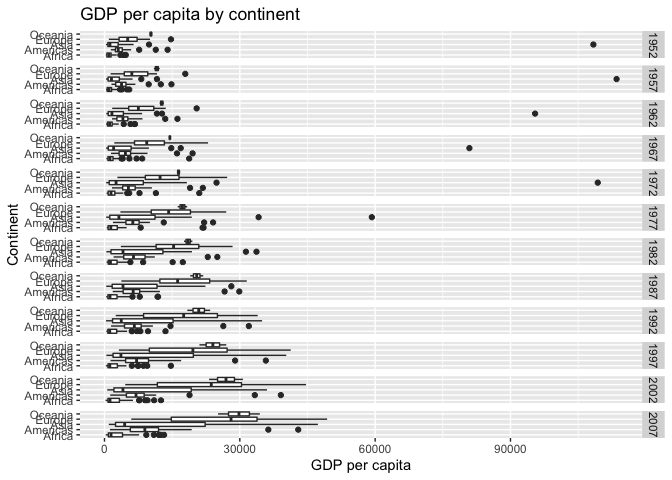
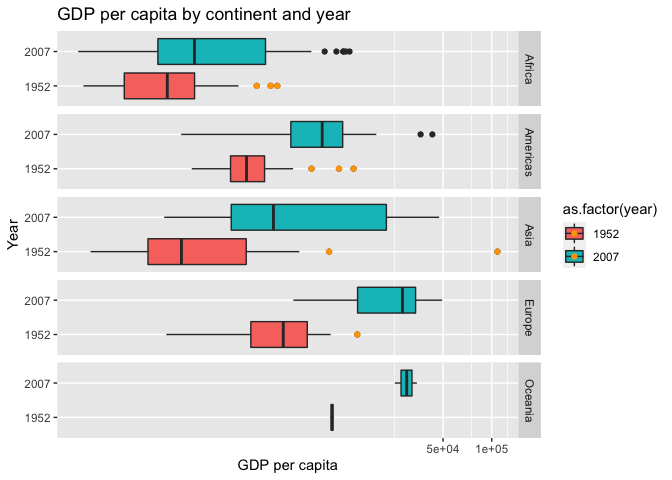
Gapminder v1.1, first complete draft

diff --git a/c04-gapminder-assignment.md b/c04-gapminder-assignment.md
@@ -20,14 +20,14 @@ learning.
 library(tidyverse)
 ```
 
-    ## ── Attaching packages ────────────────────────────────────────────────────────────────────────────────────── tidyverse 1.3.0 ──
+    ## ── Attaching packages ──────────────────────────────────────────────────────────────────────── tidyverse 1.3.0 ──
 
     ## ✓ ggplot2 3.3.2     ✓ purrr   0.3.4
     ## ✓ tibble  3.0.1     ✓ dplyr   1.0.0
     ## ✓ tidyr   1.1.0     ✓ stringr 1.4.0
     ## ✓ readr   1.3.1     ✓ forcats 0.5.0
 
-    ## ── Conflicts ───────────────────────────────────────────────────────────────────────────────────────── tidyverse_conflicts() ──
+    ## ── Conflicts ─────────────────────────────────────────────────────────────────────────── tidyverse_conflicts() ──
     ## x dplyr::filter() masks stats::filter()
     ## x dplyr::lag()    masks stats::lag()
 
@@ -79,26 +79,10 @@ dataset.
 
 ``` r
 ## TASK: Find the largest and smallest values of `year` in `gapminder`
-year_max <- gapminder %>%
-  summarize(max(year))
-year_max
+
+year_max <- max(select(gapminder, year))
+year_min <- min(select(gapminder, year))
 ```
-
-    ## # A tibble: 1 x 1
-    ##   `max(year)`
-    ##         <int>
-    ## 1        2007
-
-``` r
-year_min <- gapminder %>%
-  summarize(min(year))
-year_min
-```
-
-    ## # A tibble: 1 x 1
-    ##   `min(year)`
-    ##         <int>
-    ## 1        1952
 
 Use the following test to check your work.
 
@@ -143,72 +127,68 @@ can.
 
 ``` r
 ## TASK: Create a visual of gdpPercap vs continent
-year_min
-```
-
-    ## # A tibble: 1 x 1
-    ##   `min(year)`
-    ##         <int>
-    ## 1        1952
-
-``` r
-min_gapminder <- gapminder %>%
-  filter(year == year_min) #This is broken and I don't know why
-min_gapminder 
-```
-
-    ## # A tibble: 1,704 x 6
-    ##    country     continent  year lifeExp      pop gdpPercap
-    ##    <fct>       <fct>     <int>   <dbl>    <int>     <dbl>
-    ##  1 Afghanistan Asia       1952    28.8  8425333      779.
-    ##  2 Afghanistan Asia       1957    30.3  9240934      821.
-    ##  3 Afghanistan Asia       1962    32.0 10267083      853.
-    ##  4 Afghanistan Asia       1967    34.0 11537966      836.
-    ##  5 Afghanistan Asia       1972    36.1 13079460      740.
-    ##  6 Afghanistan Asia       1977    38.4 14880372      786.
-    ##  7 Afghanistan Asia       1982    39.9 12881816      978.
-    ##  8 Afghanistan Asia       1987    40.8 13867957      852.
-    ##  9 Afghanistan Asia       1992    41.7 16317921      649.
-    ## 10 Afghanistan Asia       1997    41.8 22227415      635.
-    ## # … with 1,694 more rows
-
-``` r
 gapminder %>%
   filter(year == year_min) %>%
-  ggplot(aes(continent, gdpPercap)) +
+  ggplot(aes(gdpPercap, continent)) +
     geom_boxplot() +
-    coord_flip() +
-    labs(title = "GDP per capita by continent", y = "GDP per capita", x = "Continent")
+    coord_trans(x = "log") +
+    labs(title = "GDP per capita by continent", x = "GDP per capita", y = "Continent")
 ```
 
 ![](c04-gapminder-assignment_files/figure-gfm/q2-task-1.png)<!-- -->
 
 **Observations**:
 
-  - Oceania has the highest mean GPD per capita, followed by Europe, the
-    Americas, Asia, and lastly Africa.
-  - Asia has the greatest spread of GDP per capita of any continent, and
-    includes multiple countries with the highest GPD per capita in the
-    first year in the dataset (represented as outliers in the chart).
+  - In 1952, Oceania had the highest mean GPD per capita, followed by
+    Europe, the Americas, Asia, and lastly Africa.
+  - Asia has the greatest spread of GDP per capita of any continent,
+    having one country with a GDP that is much higher than any other
+    country this year.
 
 **Difficulties & Approaches**:
 
   - Difficult to differentiate between GDP values near zero, where many
     are clustered. Used a boxplot for a high-level summary and flipped
-    the axes to get greater resolution in GDP.
+    the axes to get greater resolution in GDP.  
+  - This still wasn’t enough. Scaled the x-axis to be logarithmic.
 
 **q3** You should have found at least three outliers in q2. Identify
 those outliers (figure out which countries they are).
 
-*Note*: I realize the reasons for
-
 ``` r
 ## TASK: Identify the outliers from q2
+outliers_1952 <-
+  gapminder %>%
+  filter(year == year_min) %>%
+  group_by(continent) %>%
+  mutate(
+    "lowerbound" = quantile(gdpPercap, 0.25) - IQR(gdpPercap)*1.5, 
+    "upperbound" = quantile(gdpPercap, 0.75) + IQR(gdpPercap)*1.5
+  ) %>%
+  filter(gdpPercap < lowerbound | gdpPercap > upperbound)
+
+outliers_1952
 ```
+
+    ## # A tibble: 9 x 8
+    ## # Groups:   continent [4]
+    ##   country       continent  year lifeExp      pop gdpPercap lowerbound upperbound
+    ##   <fct>         <fct>     <int>   <dbl>    <int>     <dbl>      <dbl>      <dbl>
+    ## 1 Angola        Africa     1952    30.0   4.23e6     3521.      -845.      2835.
+    ## 2 Bahrain       Asia       1952    50.9   1.20e5     9867.     -2679.      6464.
+    ## 3 Canada        Americas   1952    68.8   1.48e7    11367.       161.      6208.
+    ## 4 Gabon         Africa     1952    37.0   4.21e5     4293.      -845.      2835.
+    ## 5 Kuwait        Asia       1952    55.6   1.60e5   108382.     -2679.      6464.
+    ## 6 South Africa  Africa     1952    45.0   1.43e7     4725.      -845.      2835.
+    ## 7 Switzerland   Europe     1952    69.6   4.82e6    14734.     -2752.     13230.
+    ## 8 United States Americas   1952    68.4   1.58e8    13990.       161.      6208.
+    ## 9 Venezuela     Americas   1952    55.1   5.44e6     7690.       161.      6208.
 
 **Observations**:
 
-  - Identify the outlier countries from q2
+  - Identify the outlier countries from q2: Angola, Bahrain, Canada,
+    Gabon, Kuwait, South Africa, Switzerland, United States, and
+    Venezuela
 
 **q4** Create a plot similar to yours from q2 studying both `year_min`
 and `year_max`. Find a way to highlight the outliers from q3 on your
@@ -219,20 +199,28 @@ variables; think about using different aesthetics or facets.
 
 ``` r
 ## TASK: Create a visual of gdpPercap vs continent
+
 gapminder %>%
   filter(year == year_min | year == year_max) %>%
-  ggplot(aes(continent, gdpPercap)) +
+  ggplot(aes(gdpPercap, as.factor(year), fill = as.factor(year))) +
     geom_boxplot() +
-    coord_flip() +
-    facet_grid(year ~ .) +
-    labs(title = "GDP per capita by continent", y = "GDP per capita", x = "Continent") 
+    geom_point(data = outliers_1952, color = "orange") +
+    coord_trans(x = "log") +    
+    facet_grid(continent ~ .) +
+    labs(
+      title = "GDP per capita by continent and year", 
+      x = "GDP per capita", 
+      y = "Year")
 ```
 
 ![](c04-gapminder-assignment_files/figure-gfm/q4-task-1.png)<!-- -->
 
 **Observations**:
 
-  - Write your observations here
+  - Mean GDP per capita increased for all continents from 1952 to 2007.
+  - In all cases except Asia, the boxplot’s whiskers in 2007 extend
+    higher than the GDP for the highest outlier in that continent in
+    1952.
 
 # Your Own EDA
 
@@ -246,17 +234,112 @@ the relationship between variables, or something else entirely.
 **q5** Create *at least* three new figures below. With each figure, try
 to pose new questions about the data.
 
+How do GDP and life expectancy compare?
+
 ``` r
 ## TASK: Your first graph
+ggplot(gapminder, aes(gdpPercap, lifeExp)) +
+  geom_point(aes(color = year)) +
+  coord_trans(x = "log") +
+  geom_smooth(color = "orange") +
+  labs(
+    title = "GDP per capita and life expectancy",
+    x = "GDP per capita",
+    y = "Life expectancy"
+  )
 ```
+
+    ## `geom_smooth()` using method = 'gam' and formula 'y ~ s(x, bs = "cs")'
+
+![](c04-gapminder-assignment_files/figure-gfm/q5-task1-1.png)<!-- -->
+
+**Observations**
+
+  - As we might expect, increasing GDP per capita tends to mean an
+    increased life expectancy, except at the very top values of GDP per
+    capita.
+  - I would hypothesize that these countries were likely oil-rich
+    authoritarian states, with a high GDP benefiting only the wealthiest
+    in the country, leaving a large portion of the population poor, and
+    in correspondingly poor health. Or it’s the US; this could really go
+    either way.
+
+<!-- end list -->
+
+``` r
+topGDP <-
+  gapminder %>%
+  filter(gdpPercap > 50000) %>%
+  arrange(desc(gdpPercap))
+
+topGDP
+```
+
+    ## # A tibble: 6 x 6
+    ##   country continent  year lifeExp     pop gdpPercap
+    ##   <fct>   <fct>     <int>   <dbl>   <int>     <dbl>
+    ## 1 Kuwait  Asia       1957    58.0  212846   113523.
+    ## 2 Kuwait  Asia       1972    67.7  841934   109348.
+    ## 3 Kuwait  Asia       1952    55.6  160000   108382.
+    ## 4 Kuwait  Asia       1962    60.5  358266    95458.
+    ## 5 Kuwait  Asia       1967    64.6  575003    80895.
+    ## 6 Kuwait  Asia       1977    69.3 1140357    59265.
+
+**Observations** - All the GDP per capita values greater than $50,000
+are Kuwait. (I’m feeling smug. All those political science classes are
+paying off right now.) - At least the US didn’t turn out to be in this
+set, I guess.
+
+So… What’s the trend in the US over time with respect to GDP and life
+expectancy?
 
 ``` r
 ## TASK: Your second graph
+gapminder %>%
+  filter(country == "United States") %>%
+  ggplot(aes(year, gdpPercap)) +
+    geom_point(aes(color = lifeExp)) +
+    scale_color_continuous(name = "Life expectancy") +
+    labs(
+      title = "GDP per capita and life expectancy in the United States, 1952-2007",
+      x = "Year",
+      y = "GDP per capita"
+    )
 ```
+
+![](c04-gapminder-assignment_files/figure-gfm/q5-task2-1.png)<!-- -->
+
+**Observations**
+
+  - Boring but good.
+  - Now I’m curious about Kuwait though.
+
+<!-- end list -->
 
 ``` r
 ## TASK: Your third graph
+
+gapminder %>%
+  filter(country == "Kuwait") %>%
+  ggplot(aes(year, gdpPercap)) +
+    geom_point(aes(color = lifeExp)) +
+    scale_color_continuous(name = "Life expectancy") +
+    labs(
+      title = "GDP per capita and life expectancy in Kuwait, 1952-2007",
+      x = "Year",
+      y = "GDP per capita"
+    )
 ```
+
+![](c04-gapminder-assignment_files/figure-gfm/q5-task3-1.png)<!-- -->
+
+**Observations**
+
+  - Fascinating. Life expectancy increases pretty steadily over the time
+    period, but meanwhile GDP falls dramatically from the early 1970s to
+    the mid 1980s, then starts climbing again.
+  - I wonder what political changes were wrought in this time period to
+    bring about this effect?
 
 <!-- include-rubric -->
 
